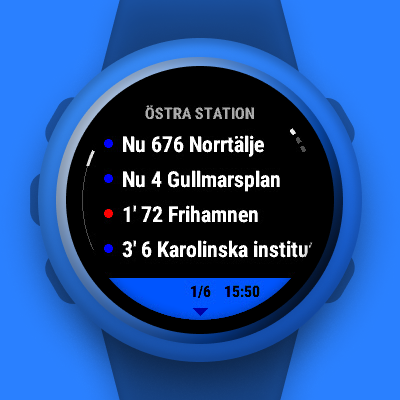
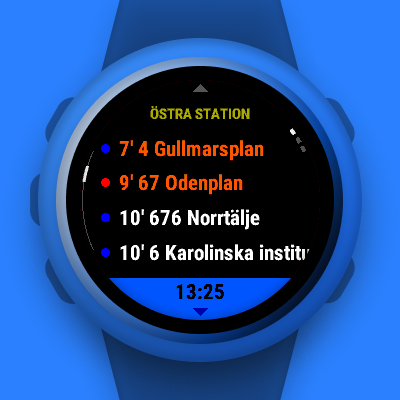
Update preview images

diff --git a/README.md b/README.md
@@ -6,7 +6,7 @@ Get it on the [Connect IQ Store](https://apps.garmin.com/en-GB/apps/a96ddb52-3ed
 
 ## Preview
 
-<p><img src="presentation/view-glance.png" width="32%" /> <img src="presentation/view-preview.png" width="32%" /> <img src="presentation/view-stops-nearby.png" width="32%" /> <img src="presentation/view-stops-favorites.png" width="32%" /> <img src="presentation/view-departures-bus.png" width="32%" /> <img src="presentation/view-departures-metro.png" width="32%" /> </p>
+<p><img src="presentation/view-glance.png" width="32%" /> <img src="presentation/view-preview.png" width="32%" /> <img src="presentation/view-stops-nearby.png" width="32%" /> <img src="presentation/view-stops-favorites.png" width="32%" /> <img src="presentation/view-departures-train.png" width="32%" /> <img src="presentation/view-departures-bus.png" width="32%" /> </p>
 
 ## Features
 
